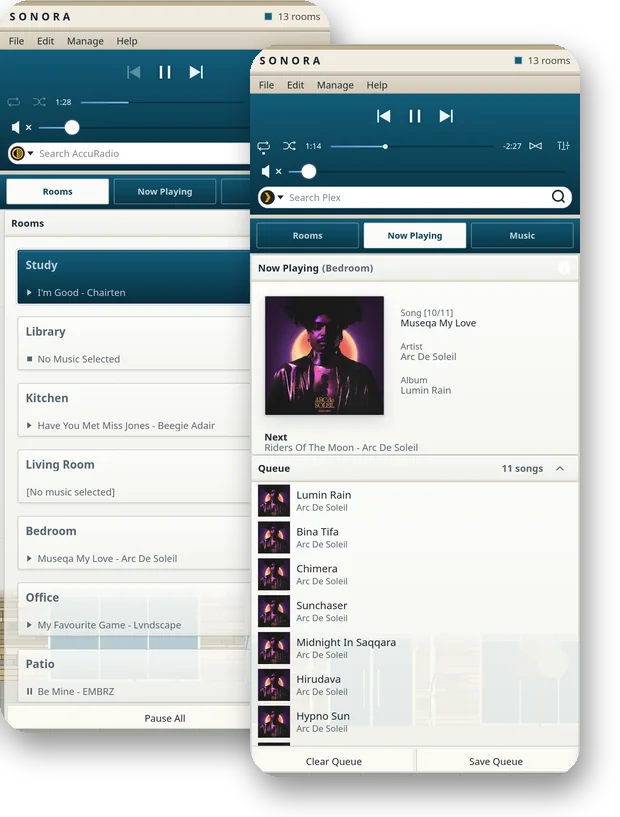
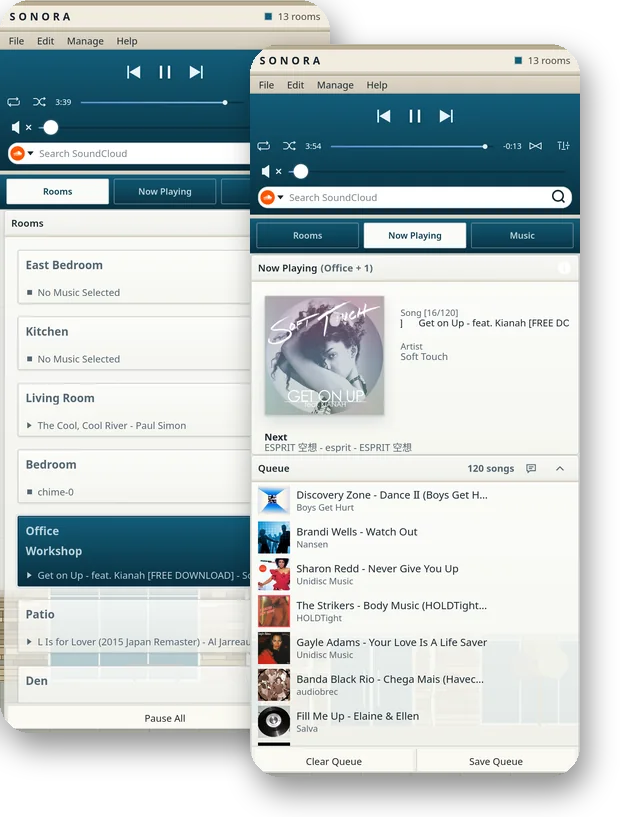
Follow the Light/Dark toggle in the theme picker's phone screenshots
For themes with light and dark versions, the phone screenshots now show only the selected look, and switching looks cross-fades the pictures. The phone screenshots were retaken from the current themes.

diff --git a/index.html b/index.html
@@ -169,8 +169,11 @@ h2 { margin: 10px 0 0; font: 700 clamp(30px, 4vw, 46px)/1.12 var(--display); let
 .looks button { font: 500 13px var(--body); color: var(--ink-soft); background: none; border: 0; padding: 7px 14px; border-radius: 999px; cursor: pointer; }
 .looks button[aria-pressed="true"] { background: rgba(248, 236, 226, 0.14); color: var(--ink); }
 .theme-shots { display: grid; grid-template-columns: 2.6fr 1fr; gap: 28px; align-items: center; margin-top: 26px; }
-.theme-shots img { width: 100%; height: auto; filter: drop-shadow(var(--shadow)); transition: opacity 0.28s ease; }
+.theme-shots .shot { position: relative; }
+.theme-shots img { display: block; width: 100%; height: auto; filter: drop-shadow(var(--shadow)); transition: opacity 0.28s ease; }
 .theme-shots img.fading { opacity: 0; }
+.theme-shots img.over { position: absolute; inset: 0; height: 100%; opacity: 0; }
+.theme-shots img.over.shown { opacity: 1; }
 @media (max-width: 880px) { .theme-shots { grid-template-columns: 1fr; } .theme-shots .phone { width: 70%; margin: 0 auto; } }
 .diy { margin-top: 30px; color: var(--ink-dim); font-size: 15px; }
 
@@ -480,8 +483,8 @@ footer nav a.support svg { width: 15px; height: 15px; color: var(--orange); }
           </div>
         </div>
         <div class="theme-shots">
-          <img id="theme-desk" alt="" width="1940" height="805">
-          <img id="theme-phone" class="phone" alt="" width="1120" height="905">
+          <div class="shot"><img id="theme-desk" alt="" width="1940" height="805"></div>
+          <div class="shot phone"><img id="theme-phone" alt="" width="1120" height="905"></div>
         </div>
       </div>
       <p class="diy">Want something else? You can build your own themes (or have your robot do it) and upload them to Sonora.</p>
@@ -674,6 +677,7 @@ let current = THEMES[0]
 let look = 'light'
 
 function show(theme, nextLook) {
+  const cross = theme === current
   current = theme
   look = theme.dark ? nextLook : 'light'
   document.getElementById('theme-name').textContent = theme.name
@@ -682,19 +686,23 @@ function show(theme, nextLook) {
   document.querySelector('.looks').hidden = !theme.dark
   for (const b of lookButtons) b.setAttribute('aria-pressed', String(b.dataset.look === look))
   swap(desk, `img/${theme.id}/spread${look === 'dark' ? '-dark' : ''}.webp`,
-       `${theme.name} theme${look === 'dark' ? ' in dark' : ''}: home, Now Playing and a music library`)
-  swap(phone, `img/${theme.id}/spread-mobile.webp`, `${theme.name} theme on a phone`)
+       `${theme.name} theme${look === 'dark' ? ' in dark' : ''}: home, Now Playing and a music library`, cross)
+  swap(phone, `img/${theme.id}/spread-mobile${theme.dark ? `-${look}` : ''}.webp`,
+       `${theme.name} theme on a phone${look === 'dark' ? ', in dark' : ''}: home and the full-screen player`, cross)
 }
 
-// A preview fades out, the next picture loads meanwhile, and it fades in once
-// both are done. The first picture appears without a fade, and a quick run of
-// clicks shows only the last one.
+// A new theme's preview fades out, the next picture loads meanwhile, and it
+// fades in once both are done. Light and Dark of one theme cross-fade instead:
+// the other look loads on top of the shown one and fades in over it. The first
+// picture appears without a fade, and a quick run of clicks shows only the
+// last one.
 const FADE_MS = 280
 const reduced = matchMedia('(prefers-reduced-motion: reduce)').matches
-function swap(img, src, alt) {
+function swap(img, src, alt, cross) {
   if (img.dataset.src === src) return
   img.dataset.src = src
   if (!img.getAttribute('src') || reduced) { img.src = src; img.alt = alt; return }
+  if (cross) return crossfade(img, src, alt)
   const next = new Image()
   next.src = src
   img.classList.add('fading')
@@ -703,6 +711,28 @@ function swap(img, src, alt) {
     img.src = src
     img.alt = alt
     requestAnimationFrame(() => img.classList.remove('fading'))
+  })
+}
+
+function crossfade(img, src, alt) {
+  const over = new Image()
+  over.className = 'over'
+  over.alt = ''
+  over.setAttribute('aria-hidden', 'true')
+  over.src = src
+  img.after(over)
+  over.decode().catch(() => {}).then(() => {
+    if (img.dataset.src !== src) { over.remove(); return }
+    requestAnimationFrame(() => over.classList.add('shown'))
+    // A later click's picture lands on top of this one and clears it away.
+    setTimeout(() => {
+      if (img.dataset.src !== src) return
+      img.src = src
+      img.alt = alt
+      img.decode().catch(() => {}).then(() => {
+        if (img.dataset.src === src) for (const o of img.parentNode.querySelectorAll('.over')) o.remove()
+      })
+    }, FADE_MS)
   })
 }
 
